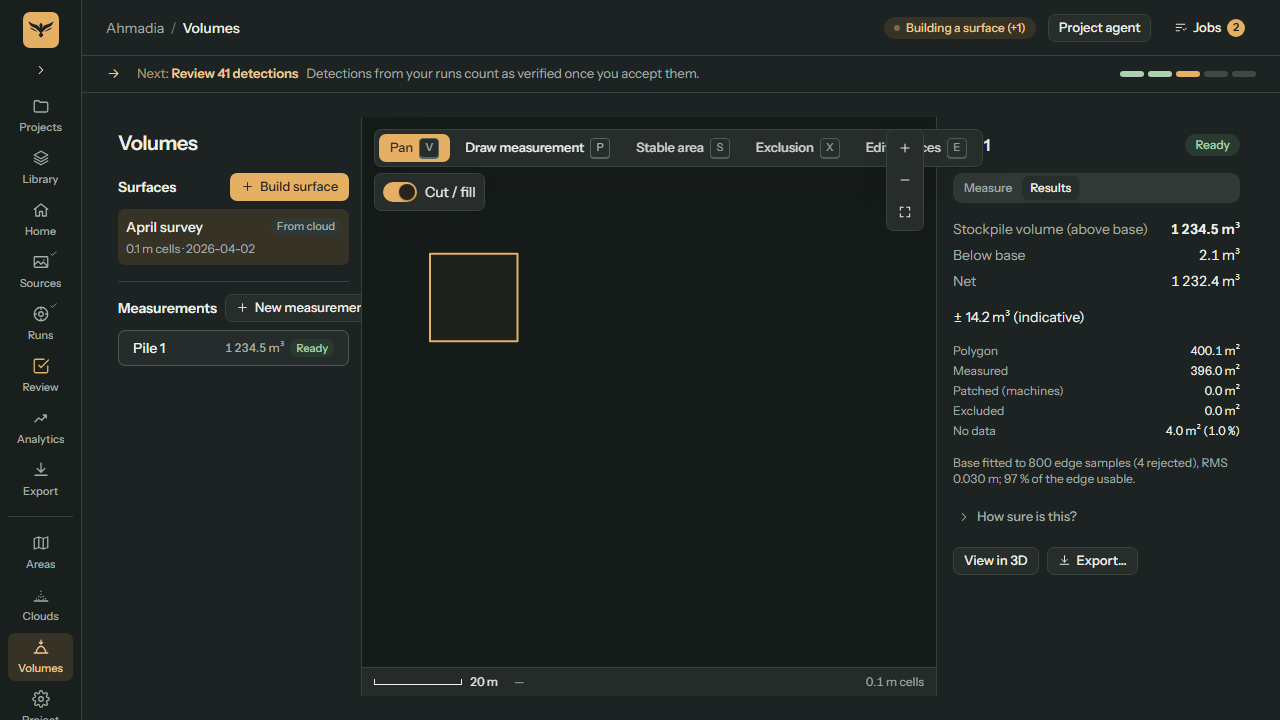
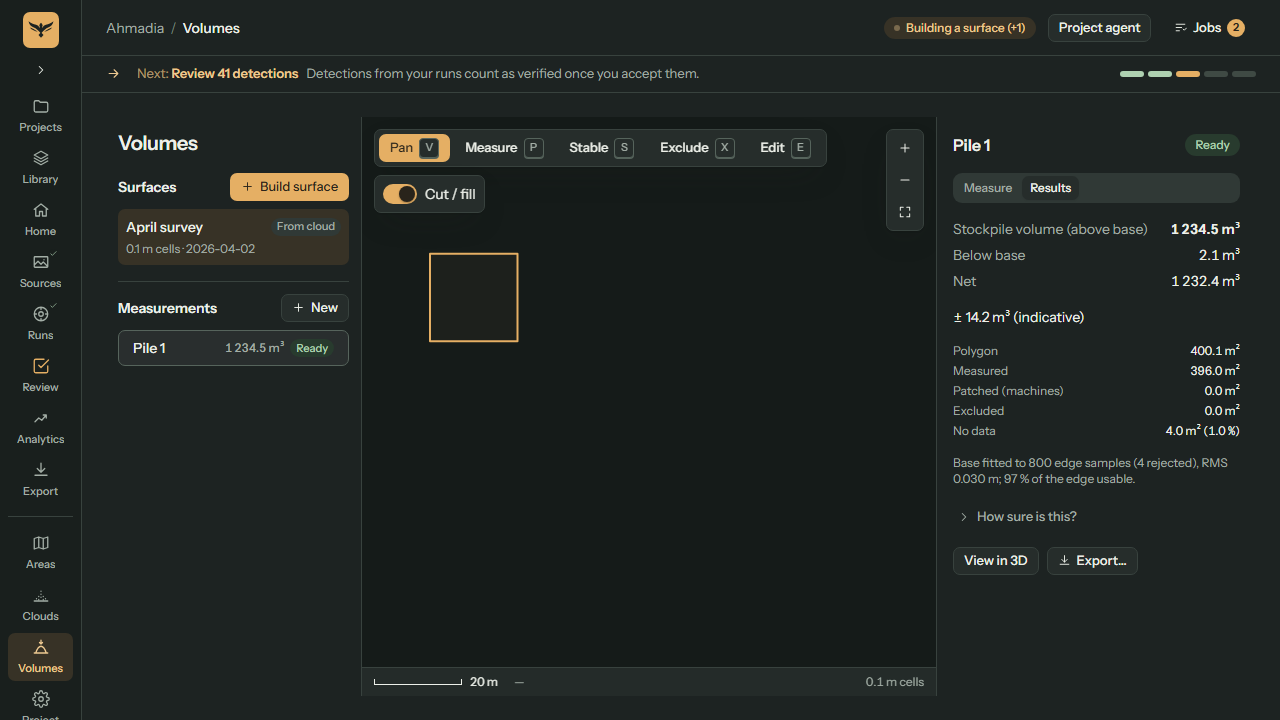
fix(volumes-ui): toolbar and switches fit at 1280 px, short New button, buffer follows the stored value, base list in the top's CRS

diff --git a/frontend/src/screens/VolumesScreen.tsx b/frontend/src/screens/VolumesScreen.tsx
@@ -309,12 +309,14 @@ export function VolumesScreen() {
               size="sm"
               icon="plus"
               disabled={!top}
+              aria-label="New measurement"
+              title="New measurement (P)"
               onClick={() => {
                 navigate(`/p/${projectId}/volumes`);
                 setTool("measure");
               }}
             >
-              New measurement
+              New
             </Button>
           </div>
           {onSurface.length === 0 ? (
@@ -342,7 +344,7 @@ export function VolumesScreen() {
           )}
         </div>
       </section>
-      <section className="relative min-w-0 flex-1">
+      <section className="relative min-w-0 flex-1 overflow-hidden">
         {top && gt ? (
           <>
             <SurfaceView
@@ -354,15 +356,22 @@ export function VolumesScreen() {
               onPointer={onPointer}
               onViewChange={(v) => setResolution(v.resolution)}
             />
-            <VolumeToolbar
-              tool={tool}
-              onTool={setTool}
-              hasMeasurement={!!active}
-              onDeleteSelected={deleteSelected}
-            />
-            <div className="absolute left-3 top-14 flex flex-col gap-1 rounded-md border border-line bg-panel p-2 shadow-float">
-              {top.map_id && <Switch label="Ortho" checked={orthoOn} onChange={setOrthoOn} />}
-              {diffUrl && <Switch label="Cut / fill" checked={diffOn} onChange={setDiffOn} />}
+            {/* One column for the tools and the layer switches, stopping short of the zoom stack on
+                the right: a toolbar that wraps pushes the switches down instead of under them. The
+                column itself lets clicks through to the map; only its panels take them. */}
+            <div className="pointer-events-none absolute left-3 right-16 top-3 flex flex-col items-start gap-2 [&>*]:pointer-events-auto">
+              <VolumeToolbar
+                tool={tool}
+                onTool={setTool}
+                hasMeasurement={!!active}
+                onDeleteSelected={deleteSelected}
+              />
+              {(top.map_id || diffUrl) && (
+                <div className="flex flex-col gap-1 rounded-md border border-line bg-panel p-2 shadow-float">
+                  {top.map_id && <Switch label="Ortho" checked={orthoOn} onChange={setOrthoOn} />}
+                  {diffUrl && <Switch label="Cut / fill" checked={diffOn} onChange={setDiffOn} />}
+                </div>
+              )}
             </div>
             <SurfaceOverlay map={olMap} surface={top} readout={readout} resolution={resolution} />
           </>
@@ -390,9 +399,7 @@ export function VolumesScreen() {
             onChanged={reload}
           />
         ) : (
-          <p className="text-sm text-muted">
-            Choose a measurement, or draw a polygon with Draw measurement (P).
-          </p>
+          <p className="text-sm text-muted">Choose a measurement, or draw a polygon with Measure (P).</p>
         )}
       </aside>
       {building && (

diff --git a/frontend/src/volumes/panels.test.tsx b/frontend/src/volumes/panels.test.tsx
@@ -1,5 +1,5 @@
 import { describe, expect, it, vi } from "vitest";
-import { fireEvent, screen, waitFor } from "@testing-library/react";
+import { fireEvent, render, screen, waitFor } from "@testing-library/react";
 import { exampleGeoMap, exampleMapRun, exampleProject, fakeClient, runningJob } from "@/test/fixtures";
 import {
   PROJECT_ID,
@@ -8,7 +8,8 @@ import {
   exampleSurface,
   otherFlightRun,
 } from "@/test/volumeFixtures";
-import { renderWithProviders } from "@/test/render";
+import { MemoryRouter } from "react-router-dom";
+import { TestApiProvider, renderWithProviders } from "@/test/render";
 import { ExportVolumesDialog } from "./ExportVolumesDialog";
 import { MeasurePanel } from "./MeasurePanel";
 import { VolumeResultsPanel } from "./VolumeResultsPanel";
@@ -85,6 +86,59 @@ describe("MeasurePanel", () => {
     fireEvent.click(screen.getByRole("button", { name: "Pick on map" }));
     expect(onPick).toHaveBeenCalled();
     expect(screen.getByText(/ground is near -46 m/)).toBeInTheDocument();
+  });
+
+  it("offers as base only surfaces in the top surface's CRS", () => {
+    const { api } = fakeClient(routes);
+    const otherZone = {
+      ...exampleBaseSurface,
+      id: "other-zone",
+      name: "Zone 40 survey",
+      epsg: 32640,
+      crs_wkt: 'PROJCS["WGS 84 / UTM zone 40N"]',
+    };
+    renderWithProviders(
+      <MeasurePanel
+        projectId={PROJECT_ID}
+        measurement={{
+          ...exampleMeasurement,
+          base: { kind: "surface", z: null, surface_id: exampleBaseSurface.id },
+        }}
+        top={exampleSurface}
+        surfaces={[exampleSurface, exampleBaseSurface, otherZone]}
+        picking={false}
+        onPick={() => {}}
+        onSave={() => {}}
+        onChanged={() => {}}
+      />,
+      { api },
+    );
+    const options = Array.from(screen.getByLabelText("Base surface").querySelectorAll("option"));
+    expect(options.map((o) => o.value)).toEqual([exampleBaseSurface.id]);
+  });
+
+  it("the buffer field follows the stored value after a revert", () => {
+    const { api } = fakeClient(routes);
+    const panel = (buffer_m: number) => (
+      <TestApiProvider api={api}>
+        <MemoryRouter>
+          <MeasurePanel
+            projectId={PROJECT_ID}
+            measurement={{ ...exampleMeasurement, masks: { ...exampleMeasurement.masks, buffer_m } }}
+            top={exampleSurface}
+            surfaces={[exampleSurface]}
+            picking={false}
+            onPick={() => {}}
+            onSave={() => {}}
+            onChanged={() => {}}
+          />
+        </MemoryRouter>
+      </TestApiProvider>
+    );
+    const { rerender } = render(panel(1));
+    expect(screen.getByLabelText("Buffer around machines (m)")).toHaveValue(1);
+    rerender(panel(2.5));
+    expect(screen.getByLabelText("Buffer around machines (m)")).toHaveValue(2.5);
   });
 
   it("Calculate starts the job", async () => {

diff --git a/frontend/src/volumes/MeasurePanel.tsx b/frontend/src/volumes/MeasurePanel.tsx
@@ -51,15 +51,19 @@ export function MeasurePanel({
   const { job } = useTrackedJob(projectId, m.status === "calculating" ? m.job_id : null);
   const [name, setName] = useState(m.name);
   const [flatZ, setFlatZ] = useState(m.base.z != null ? String(m.base.z) : "");
+  const [buffer, setBuffer] = useState(String(m.masks.buffer_m));
   const [maps, setMaps] = useState<GeoMap[]>([]);
   const [runs, setRuns] = useState<MapRun[]>([]);
   // A saved change comes back as a new measurement: re-seed the drafts during render (not in an
   // effect) so the fields follow the stored values.
-  const [seen, setSeen] = useState({ name: m.name, z: m.base.z });
-  if (seen.name !== m.name || seen.z !== m.base.z) {
-    setSeen({ name: m.name, z: m.base.z });
-    setName(m.name);
-    setFlatZ(m.base.z != null ? String(m.base.z) : "");
+  // (Revert to last calculated inputs is such a change too.)
+  const stored = { name: m.name, z: m.base.z, buffer: m.masks.buffer_m };
+  const [seen, setSeen] = useState(stored);
+  if (seen.name !== stored.name || seen.z !== stored.z || seen.buffer !== stored.buffer) {
+    setSeen(stored);
+    setName(stored.name);
+    setFlatZ(stored.z != null ? String(stored.z) : "");
+    setBuffer(String(stored.buffer));
   }
 
   useEffect(() => {
@@ -80,7 +84,8 @@ export function MeasurePanel({
   }, [api, projectId]);
 
   const sameCrs = surfaces.filter((s) => s.epsg === top.epsg && s.crs_wkt === top.crs_wkt);
-  const bases = [...surfaces]
+  // A base must share the top's grid CRS, as the top list does; the server refuses anything else.
+  const bases = [...sameCrs]
     .filter((s) => s.id !== top.id)
     .sort((a, b) => (b.captured_on ?? "").localeCompare(a.captured_on ?? ""));
   const baseSurface = surfaces.find((s) => s.id === m.base.surface_id) ?? null;
@@ -226,10 +231,12 @@ export function MeasurePanel({
               min={0}
               max={5}
               step={0.1}
-              defaultValue={m.masks.buffer_m}
-              onBlur={(e) =>
-                Number(e.target.value) !== m.masks.buffer_m &&
-                onSave({ masks: { buffer_m: Number(e.target.value) } })
+              value={buffer}
+              onChange={(e) => setBuffer(e.target.value)}
+              onBlur={() =>
+                buffer !== "" &&
+                Number(buffer) !== m.masks.buffer_m &&
+                onSave({ masks: { buffer_m: Number(buffer) } })
               }
             />
           </Field>

diff --git a/frontend/src/volumes/VolumeToolbar.tsx b/frontend/src/volumes/VolumeToolbar.tsx
@@ -3,12 +3,14 @@ import { isTypingTarget } from "@/editor/hotkeys";
 import { Button, Kbd } from "@/ui";
 import type { VolumeTool } from "./volumeLayers";
 
-const TOOLS: { tool: VolumeTool; label: string; key: string; needsMeasurement: boolean }[] = [
-  { tool: "pan", label: "Pan", key: "V", needsMeasurement: false },
-  { tool: "measure", label: "Draw measurement", key: "P", needsMeasurement: false },
-  { tool: "stable", label: "Stable area", key: "S", needsMeasurement: true },
-  { tool: "exclusion", label: "Exclusion", key: "X", needsMeasurement: true },
-  { tool: "edit", label: "Edit vertices", key: "E", needsMeasurement: true },
+// `short` is what the bar shows (it has to fit a 1280 px window next to both side panels); `label`
+// is the full name, used as the accessible name and the tooltip.
+const TOOLS: { tool: VolumeTool; short: string; label: string; key: string; needsMeasurement: boolean }[] = [
+  { tool: "pan", short: "Pan", label: "Pan", key: "V", needsMeasurement: false },
+  { tool: "measure", short: "Measure", label: "Draw measurement", key: "P", needsMeasurement: false },
+  { tool: "stable", short: "Stable", label: "Stable area", key: "S", needsMeasurement: true },
+  { tool: "exclusion", short: "Exclude", label: "Exclusion", key: "X", needsMeasurement: true },
+  { tool: "edit", short: "Edit", label: "Edit vertices", key: "E", needsMeasurement: true },
 ];
 
 /**
@@ -42,7 +44,7 @@ export function VolumeToolbar({
     <div
       role="toolbar"
       aria-label="Drawing tools"
-      className="absolute left-3 top-3 flex gap-1 rounded-md border border-line bg-panel p-1 shadow-float"
+      className="flex flex-wrap gap-1 rounded-md border border-line bg-panel p-1 shadow-float"
     >
       {TOOLS.map((t) => (
         <Button
@@ -52,8 +54,10 @@ export function VolumeToolbar({
           aria-pressed={tool === t.tool}
           disabled={t.needsMeasurement && !hasMeasurement}
           onClick={() => onTool(t.tool)}
+          aria-label={`${t.label} (${t.key})`}
+          title={`${t.label} (${t.key})`}
         >
-          {t.label} <Kbd>{t.key}</Kbd>
+          {t.short} <Kbd>{t.key}</Kbd>
         </Button>
       ))}
     </div>
